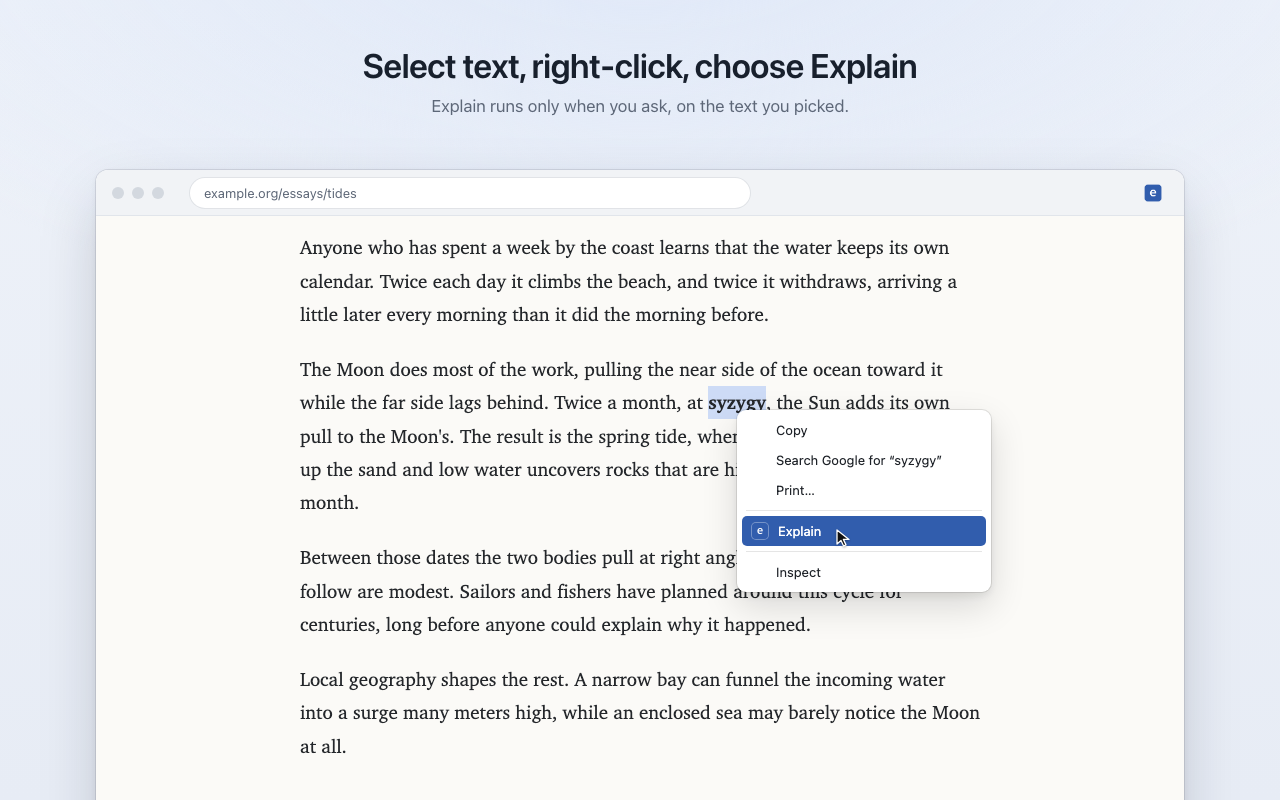
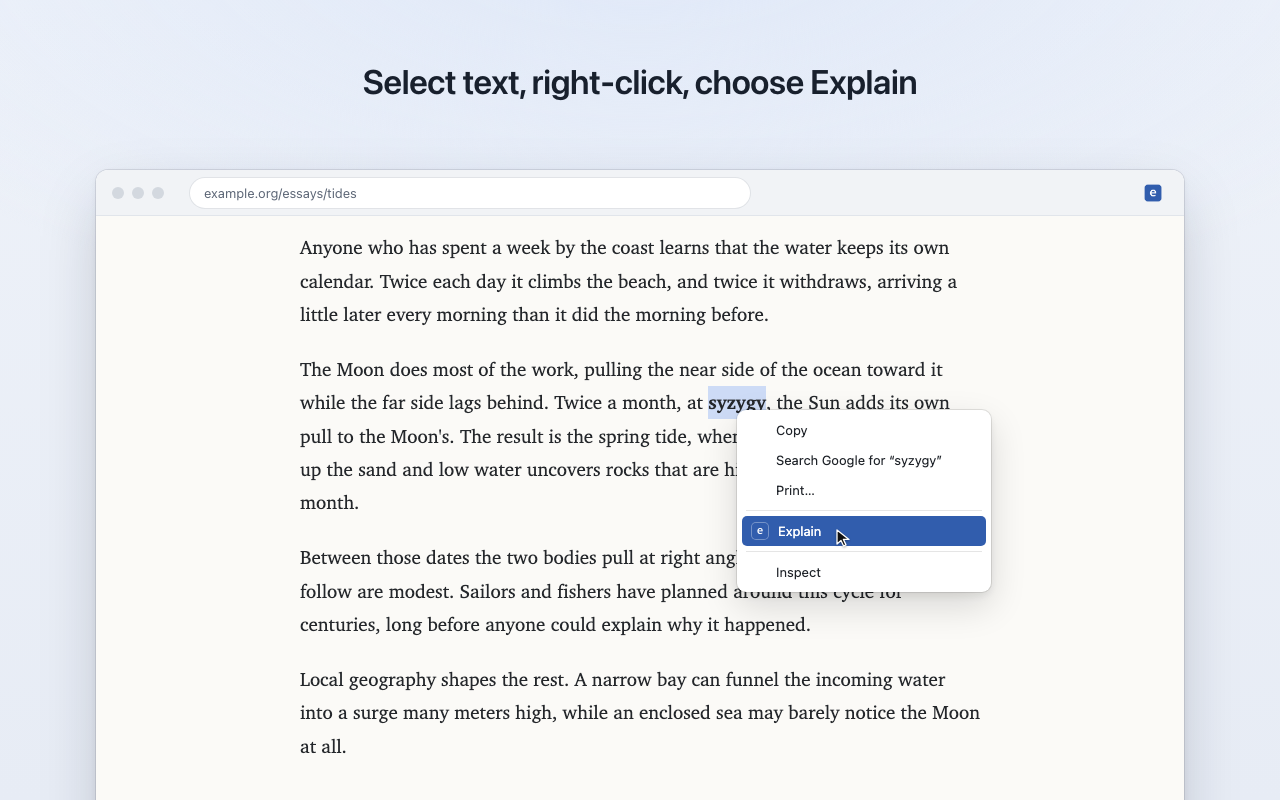
Site: reveal on scroll, screenshot lightbox, shorter copy; drop screenshot subtitles

Changed region(s): [[0.2812, 0.0625, 0.7188, 0.1562]]

diff --git a/docs/index.html b/docs/index.html
@@ -39,11 +39,10 @@
 </nav>
 <main id="main">
 <header class="hero" id="top">
-<p class="status"><span class="dot" aria-hidden="true"></span><span>For Chrome and Firefox<span class="more">. Chrome Web Store listing coming soon.</span></span></p>
+<p class="status"><span class="dot" aria-hidden="true"></span><span>For Chrome and Firefox</span></p>
 <h1>Understand what you read, right where you read it</h1>
-<p class="sub">Select a word or passage, <span class="nw">right-click,</span> and choose Explain. A small card opens beside the text with a short, plain explanation from Google Gemini.</p>
+<p class="sub">Select text, <span class="nw">right-click,</span> choose Explain. A short, plain answer appears right beside it.</p>
 <div class="cta"><a class="btn" href="https://github.com/canmenzo/explainExtension/releases/latest"><svg viewBox="0 0 24 24" aria-hidden="true"><path d="M12 4v11M7 10l5 5 5-5M5 20h14"/></svg>Download from GitHub</a><a class="btn ghost" href="#install">See install steps</a></div>
-<p class="proof">Free and open source. Uses your own free Google AI Studio key. No account, no analytics, no servers of ours.</p>
 
 <figure class="demo" id="demo">
 <div class="win" role="img" aria-label="Illustration: on an article about tides, the word syzygy is selected, the right-click menu offers Explain, and a card beside the word explains it in two sentences.">
@@ -64,17 +63,17 @@
 
 <section class="wrap" id="how">
 <p class="eyebrow rv">How it works</p>
-<h2 class="rv">Add a key once, then right-click to explain</h2>
+<h2 class="rv">Add a key once, then right-click</h2>
 <ol class="trio">
-<li class="card rv"><span class="n">1</span><h3>Add your key</h3><p>Click the Explain icon in the toolbar, paste your Google AI Studio key and click <strong>Save key</strong>. It is kept until the browser closes.</p></li>
-<li class="card rv"><span class="n">2</span><h3>Select and right-click</h3><p>Highlight a word, a phrase or a whole passage on any page, right-click it, and choose <strong>Explain</strong>.</p></li>
-<li class="card rv"><span class="n">3</span><h3>Read beside the text</h3><p>A card opens next to your selection and the explanation streams in as Gemini writes it. Close it with <kbd>Esc</kbd> or a click outside.</p></li>
+<li class="card rv"><span class="n">1</span><h3>Add your key</h3><p>Paste a free Google AI Studio key into the toolbar popup.</p></li>
+<li class="card rv"><span class="n">2</span><h3>Right-click</h3><p>Select any word or passage and choose <strong>Explain</strong>.</p></li>
+<li class="card rv"><span class="n">3</span><h3>Read</h3><p>The answer streams into a card beside the text. <kbd>Esc</kbd> closes it.</p></li>
 </ol>
 <div class="grid">
-<div class="card rv"><svg viewBox="0 0 24 24" aria-hidden="true"><path d="M4 6h16M4 12h10M4 18h13"/></svg><h3>Explained in context</h3><p>Explain sends the paragraph around your selection too, so a word is explained the way this page uses it.</p></div>
-<div class="card rv"><svg viewBox="0 0 24 24" aria-hidden="true"><path d="M5 12h14M13 6l6 6-6 6"/></svg><h3>Streams as it writes</h3><p>The answer appears word by word as Gemini writes it. Long answers scroll inside the card, so the page stays where it was.</p></div>
-<div class="card rv"><svg viewBox="0 0 24 24" aria-hidden="true"><circle cx="12" cy="12" r="9"/><path d="M12 7v5l3 2"/></svg><h3>Quiet until asked</h3><p>Nothing runs on a page until you choose Explain from the menu, and then only on that tab.</p></div>
-<div class="card rv"><svg viewBox="0 0 24 24" aria-hidden="true"><path d="M20 12a8 8 0 11-2.3-5.6M20 4v4h-4"/></svg><h3>Clear when it fails</h3><p>If Gemini is busy or the key is wrong, the card says so in plain words and offers <strong>Try again</strong>.</p></div>
+<div class="card rv"><svg viewBox="0 0 24 24" aria-hidden="true"><path d="M4 6h16M4 12h10M4 18h13"/></svg><h3>Explained in context</h3><p>The paragraph around your selection is sent too, so answers fit the page.</p></div>
+<div class="card rv"><svg viewBox="0 0 24 24" aria-hidden="true"><path d="M5 12h14M13 6l6 6-6 6"/></svg><h3>Streams as it writes</h3><p>Words appear as Gemini writes them. The page never jumps.</p></div>
+<div class="card rv"><svg viewBox="0 0 24 24" aria-hidden="true"><circle cx="12" cy="12" r="9"/><path d="M12 7v5l3 2"/></svg><h3>Quiet until asked</h3><p>Nothing runs on a page until you choose Explain.</p></div>
+<div class="card rv"><svg viewBox="0 0 24 24" aria-hidden="true"><path d="M20 12a8 8 0 11-2.3-5.6M20 4v4h-4"/></svg><h3>Clear when it fails</h3><p>Plain error messages and a <strong>Try again</strong> button.</p></div>
 </div>
 </section>
 
@@ -82,58 +81,59 @@
 <p class="eyebrow rv">Screenshots</p>
 <h2 class="rv">What it looks like in your browser</h2>
 <div class="gallery">
-<figure class="rv"><a href="img/5-popup.png"><picture><source srcset="img/5-popup.webp" type="image/webp"><img src="img/5-popup.png" width="1280" height="800" loading="lazy" decoding="async" alt="The Explain toolbar popup open over an article, with a Gemini API key field, a Get a free key link and a Save key button"></picture></a><figcaption><strong>Setup.</strong> The toolbar popup only asks for your key. <strong>Get a free key</strong> opens Google AI Studio.</figcaption></figure>
-<figure class="rv"><a href="img/1-context-menu.png"><picture><source srcset="img/1-context-menu.webp" type="image/webp"><img src="img/1-context-menu.png" width="1280" height="800" loading="lazy" decoding="async" alt="The word syzygy selected in an article, with the right-click menu open and Explain highlighted"></picture></a><figcaption><strong>Ask.</strong> Right-click any selection and choose Explain.</figcaption></figure>
-<figure class="rv"><a href="img/3-explanation.png"><picture><source srcset="img/3-explanation.webp" type="image/webp"><img src="img/3-explanation.png" width="1280" height="800" loading="lazy" decoding="async" alt="The Explain card below the selected word, explaining that syzygy is the alignment of the Sun, the Moon and Earth"></picture></a><figcaption><strong>Read.</strong> The answer appears in a card right next to your selection.</figcaption></figure>
-<figure class="rv"><a href="img/4-error-retry.png"><picture><source srcset="img/4-error-retry.webp" type="image/webp"><img src="img/4-error-retry.png" width="1280" height="800" loading="lazy" decoding="async" alt="The Explain card showing that Google's rate limit was reached, with a Try again button"></picture></a><figcaption><strong>Recover.</strong> Errors are spelled out, with <strong>Try again</strong> one click away.</figcaption></figure>
+<figure class="rv"><a href="img/5-popup.png"><picture><source srcset="img/5-popup.webp" type="image/webp"><img src="img/5-popup.png" width="1280" height="800" loading="lazy" decoding="async" alt="The Explain toolbar popup open over an article, with a Gemini API key field, a Get a free key link and a Save key button"></picture></a></figure>
+<figure class="rv"><a href="img/1-context-menu.png"><picture><source srcset="img/1-context-menu.webp" type="image/webp"><img src="img/1-context-menu.png" width="1280" height="800" loading="lazy" decoding="async" alt="The word syzygy selected in an article, with the right-click menu open and Explain highlighted"></picture></a></figure>
+<figure class="rv"><a href="img/3-explanation.png"><picture><source srcset="img/3-explanation.webp" type="image/webp"><img src="img/3-explanation.png" width="1280" height="800" loading="lazy" decoding="async" alt="The Explain card below the selected word, explaining that syzygy is the alignment of the Sun, the Moon and Earth"></picture></a></figure>
+<figure class="rv"><a href="img/4-error-retry.png"><picture><source srcset="img/4-error-retry.webp" type="image/webp"><img src="img/4-error-retry.png" width="1280" height="800" loading="lazy" decoding="async" alt="The Explain card showing that Google's rate limit was reached, with a Try again button"></picture></a></figure>
 </div>
 </section>
 
-<div class="tagline"><div class="wrap"><p id="tag">A word you do not know should not send you to another tab. Explain answers it beside the sentence, then gets out of the way.</p></div></div>
+<div class="tagline"><div class="wrap"><p id="tag">A word you do not know should not send you to another tab.</p></div></div>
 
 <section class="wrap" id="privacy">
 <p class="eyebrow rv">Privacy</p>
 <h2 class="rv">Your text goes to Google, and nowhere else</h2>
-<p class="lead rv">Explain has no servers, no account and no analytics. When you choose Explain, your browser sends the request straight to Google's Gemini API with your own key. Nothing passes through us.</p>
+<p class="lead rv">No servers, no account, no analytics. Requests go straight from your browser to Google with your own key.</p>
 <div class="facts">
 <div class="card rv"><h3>What is sent</h3><ul><li>The text you selected</li><li>The paragraph around it</li><li>The page title</li><li>Your API key, to authenticate the request</li></ul></div>
 <div class="card rv"><h3>What is never sent</h3><ul><li>The page address</li><li>The page's HTML</li><li>Anything from tabs where you did not choose Explain</li></ul></div>
 <div class="card rv"><h3>What is stored</h3><ul><li>Only your API key, in browser session memory</li><li>Cleared when the browser closes</li><li>Answers are shown, then discarded</li></ul></div>
 </div>
-<p class="note rv"><strong>Google's free tier.</strong> Requests are processed under Google's terms. On the free tier, Google may use submitted content to improve its products; its paid tier says it does not. Avoid explaining sensitive text on a free key. Read the full <a href="privacy.html">privacy policy</a>.</p>
+<p class="note rv"><strong>Free tier.</strong> Google may use free-tier requests to improve its products, so avoid sensitive text. Read the <a href="privacy.html">privacy policy</a>.</p>
 </section>
 
 <section class="wrap" id="install">
 <p class="eyebrow rv">Install</p>
 <h2 class="rv">Ready in about two minutes</h2>
 <ol class="steps rv">
-<li><strong>Download the ZIP</strong><span>Get <code>explain-chrome.zip</code> from the <a href="https://github.com/canmenzo/explainExtension/releases/latest">latest release</a> and unzip it.</span></li>
-<li><strong>Open the extensions page</strong><span>Type <code>chrome://extensions</code> in the address bar and turn on <strong>Developer mode</strong> in the top right.</span></li>
-<li><strong>Load unpacked</strong><span>Click <strong>Load unpacked</strong> and choose the unzipped folder, the one that contains <code>manifest.json</code>. Pin Explain from the puzzle piece menu so its icon stays in the toolbar.</span></li>
-<li><strong>Add your key</strong><span>Click the Explain icon and follow <strong>Get a free key</strong> to <a href="https://aistudio.google.com/apikey">Google AI Studio</a>. Paste the key and click <strong>Save key</strong>. Then select text, right-click and choose Explain.</span></li>
+<li><strong>Download</strong><span>Get <code>explain-chrome.zip</code> from the <a href="https://github.com/canmenzo/explainExtension/releases/latest">latest release</a> and unzip it.</span></li>
+<li><strong>Open extensions</strong><span>Go to <code>chrome://extensions</code> and turn on <strong>Developer mode</strong>.</span></li>
+<li><strong>Load unpacked</strong><span>Click <strong>Load unpacked</strong> and choose the unzipped folder.</span></li>
+<li><strong>Add your key</strong><span>Click the Explain icon, then <strong>Get a free key</strong>. Paste it and click <strong>Save key</strong>.</span></li>
 </ol>
-<div class="note rv"><strong>Firefox.</strong> Download <code>explain-firefox.zip</code> from the same release and unzip it. Open <code>about:debugging#/runtime/this-firefox</code>, click <strong>Load Temporary Add-on</strong> and pick <code>manifest.json</code> in the unzipped folder. Firefox removes temporary add-ons when it closes, so repeat this after a restart. Needs Firefox 140 or newer.</div>
-<div class="note rv"><strong>Chrome Web Store.</strong> A store listing is coming soon, with one-click install and automatic updates. Until then, the GitHub release is the way in.</div>
+<div class="note rv"><strong>Firefox 140+.</strong> Unzip <code>explain-firefox.zip</code>, open <code>about:debugging#/runtime/this-firefox</code>, click <strong>Load Temporary Add-on</strong> and pick <code>manifest.json</code>. Firefox removes it on restart.</div>
+
 </section>
 
 <section class="wrap" id="faq">
 <p class="eyebrow rv">FAQ</p>
 <h2 class="rv">Questions people ask</h2>
-<details class="rv"><summary>Does it cost anything?</summary><p>Explain itself is free and MIT licensed. The Gemini key is yours: creating one in Google AI Studio is free, and Google's free tier covers light reading with rate limits that depend on your account. If you set up billing with Google, Google charges you directly. See <a href="https://ai.google.dev/gemini-api/docs/pricing">Gemini API pricing</a>.</p></details>
-<details class="rv"><summary>What exactly is sent, and to whom?</summary><p>Only when you choose Explain: the selected text (up to 12,000 characters), the paragraph, list item, heading or table cell around it (up to 5,000 characters), the page title (up to 300 characters) and your key. It goes straight from your browser to <code>generativelanguage.googleapis.com</code>. The page address and HTML are never sent.</p></details>
-<details class="rv"><summary>Why do I paste my key again after restarting the browser?</summary><p>The key is kept only in the browser's session storage, which lives in memory and clears when the browser closes. Explain never writes it to disk. That is a deliberate trade for a little extra typing.</p></details>
-<details class="rv"><summary>What if I choose Explain before adding a key?</summary><p>The card says to add your key first, and where the browser allows it, the key popup opens for you. Paste the key, click <strong>Save key</strong> and choose Explain again.</p></details>
-<details class="rv"><summary>Which browsers are supported?</summary><p>Chrome, and Firefox 140 or newer, on desktop. Other Chromium browsers that can load unpacked extensions may work with the Chrome build, but they are not tested.</p></details>
-<details class="rv"><summary>Which model writes the answers?</summary><p>Gemini 3.8 Flash. Explain calls the model directly and does not run a Google Search, so answers come from the text you selected, the paragraph around it and what the model already knows.</p></details>
-<details class="rv"><summary>Can it read every page I visit?</summary><p>No. Explain has no access to your sites until you choose it from the right-click menu. That grants it the current tab only, through the browser's active tab permission.</p></details>
-<details class="rv"><summary>Is it in the Chrome Web Store?</summary><p>Not yet. The listing is coming soon. For now, install it from the GitHub release as described above.</p></details>
+<details class="rv"><summary>Does it cost anything?</summary><p>Explain is free and MIT licensed. A Gemini key from Google AI Studio is free too, with rate limits. See <a href="https://ai.google.dev/gemini-api/docs/pricing">Gemini API pricing</a>.</p></details>
+<details class="rv"><summary>What exactly is sent, and to whom?</summary><p>The selected text, the paragraph around it and the page title, sent straight to <code>generativelanguage.googleapis.com</code>. Never the page address or HTML.</p></details>
+<details class="rv"><summary>Why do I paste my key again after restarting the browser?</summary><p>The key lives only in session memory and is never written to disk, so it clears when the browser closes.</p></details>
+<details class="rv"><summary>What if I choose Explain before adding a key?</summary><p>The card asks for a key and the key popup opens where the browser allows it.</p></details>
+<details class="rv"><summary>Which browsers are supported?</summary><p>Chrome, and Firefox 140 or newer, on desktop.</p></details>
+<details class="rv"><summary>Which model writes the answers?</summary><p>Gemini 3.8 Flash, without Google Search.</p></details>
+<details class="rv"><summary>Can it read every page I visit?</summary><p>No. It only gets access to the current tab when you choose Explain.</p></details>
+<details class="rv"><summary>Is it in the Chrome Web Store?</summary><p>Not yet. Install it from the GitHub release for now.</p></details>
 </section>
 
 <section class="wrap final">
-<div class="panel rv"><img class="pm" src="icon-128.png" alt="" width="48" height="48" loading="lazy"><h2>Keep reading without losing your place</h2><p>Free, open source and ready in about two minutes.</p><div class="cta"><a class="btn lg" href="https://github.com/canmenzo/explainExtension/releases/latest"><svg viewBox="0 0 24 24" aria-hidden="true"><path d="M12 4v11M7 10l5 5 5-5M5 20h14"/></svg>Download from GitHub</a><a class="btn ghost lg" href="https://github.com/canmenzo/explainExtension">View source</a></div></div>
+<div class="panel rv"><img class="pm" src="icon-128.png" alt="" width="48" height="48" loading="lazy"><h2>Keep reading without losing your place</h2><div class="cta"><a class="btn lg" href="https://github.com/canmenzo/explainExtension/releases/latest"><svg viewBox="0 0 24 24" aria-hidden="true"><path d="M12 4v11M7 10l5 5 5-5M5 20h14"/></svg>Download from GitHub</a><a class="btn ghost lg" href="https://github.com/canmenzo/explainExtension">View source</a></div></div>
 </section>
 </main>
 <footer><div class="wrap"><div class="fb"><a class="brand" href="#top"><img src="icon-128.png" alt="" width="24" height="24">Explain</a><p>Plain explanations for what you read. MIT licensed. Made by <a href="https://menzo.dev">menzo</a>.</p></div><nav aria-label="Footer"><a href="https://github.com/canmenzo/explainExtension">GitHub</a><a href="https://github.com/canmenzo/explainExtension/releases/latest">Releases</a><a href="privacy.html">Privacy</a><a href="https://babil.menzo.dev">Babil</a><a href="https://hammurabi.menzo.dev">Hammurabi</a><a href="https://menzo.dev">menzo.dev</a></nav></div></footer>
+<dialog class="lb" id="lb" aria-label="Screenshot"><img alt=""></dialog>
 <script>
 (function(){
 var rm=matchMedia("(prefers-reduced-motion: reduce)").matches;
@@ -163,7 +163,7 @@ if(document.fonts)document.fonts.ready.then(place);
 if(rm||!("IntersectionObserver" in window)){stage(4);return}
 replay.hidden=false;replay.addEventListener("click",play);
 stage(0);
-var o=new IntersectionObserver(function(es){if(es[0].isIntersecting){o.disconnect();play()}},{threshold:.4});o.observe(demo);
+var o=new IntersectionObserver(function(es){if(es[0].isIntersecting){o.disconnect();play()}},{threshold:.6});o.observe(demo);
 })();
 (function(){
 var rm=matchMedia("(prefers-reduced-motion: reduce)").matches;
@@ -175,10 +175,18 @@ function all(){ws.concat(rv).forEach(function(e){e.classList.add("on")})}
 if(!("IntersectionObserver" in window)||rm){all();return}
 function mk(m){var o=new IntersectionObserver(function(es){es.forEach(function(e){if(e.isIntersecting){e.target.classList.add("on");o.unobserve(e.target)}})},{rootMargin:m});return o}
 var wo=mk("0px 0px -40% 0px");ws.forEach(function(w){wo.observe(w)});
-var ro=mk("0px 0px -5% 0px");rv.forEach(function(e){ro.observe(e)});
+// Reveal once an element is well inside the viewport, staggering items that arrive together.
+var ro=new IntersectionObserver(function(es){var n=0;es.forEach(function(e){if(!e.isIntersecting)return;var t=e.target,d=n++*90;t.style.transitionDelay=d+"ms";t.classList.add("on");ro.unobserve(t);setTimeout(function(){t.style.transitionDelay=""},d+900)})},{threshold:.2,rootMargin:"0px 0px -12% 0px"});
+rv.forEach(function(e){ro.observe(e)});
 var links=[].slice.call(document.querySelectorAll(".links a"));
 var so=new IntersectionObserver(function(es){es.forEach(function(e){if(e.isIntersecting){links.forEach(function(a){if(a.getAttribute("href")==="#"+e.target.id)a.setAttribute("aria-current","true");else a.removeAttribute("aria-current")})}})},{rootMargin:"-40% 0px -55% 0px"});
 links.forEach(function(a){var s=document.querySelector(a.getAttribute("href"));if(s)so.observe(s)});
+})();
+(function(){
+var lb=document.getElementById("lb"),img=lb.querySelector("img");
+if(!lb.showModal)return;
+[].slice.call(document.querySelectorAll(".gallery a")).forEach(function(a){a.addEventListener("click",function(e){e.preventDefault();var i=a.querySelector("img");img.src=a.getAttribute("href");img.alt=i.alt;lb.showModal()})});
+lb.addEventListener("click",function(){lb.close()});
 })();
 </script>
 </body>

diff --git a/docs/style.css b/docs/style.css
@@ -31,7 +31,6 @@ nav.pill .links a[aria-current]{text-decoration:underline;text-decoration-color:
 .hero h1{max-width:10.3em;margin:0 auto 20px;padding:.04em 0 .16em;font-size:clamp(36px,7vw,60px);line-height:1.08;font-weight:700;letter-spacing:-.035em;text-wrap:balance;background:linear-gradient(90deg,var(--g1),var(--g2));-webkit-background-clip:text;background-clip:text;color:transparent}
 .hero p.sub{max-width:640px;margin:0 auto 32px;font-size:18px;line-height:28px;color:var(--soft);text-wrap:balance}
 .cta{display:flex;flex-wrap:wrap;gap:12px;justify-content:center}
-.proof{max-width:600px;margin:20px auto 0;font-size:14px;line-height:20px;color:var(--soft);text-wrap:balance}
 .status{display:inline-flex;align-items:center;gap:8px;margin:0 0 24px;padding:4px 12px;border:1px solid var(--border);border-radius:9999px;background:var(--raised);font-size:14px;line-height:20px;font-weight:600;color:var(--soft)}
 .dot{flex:none;width:8px;height:8px;border-radius:9999px;background:var(--accent);display:inline-block;animation:pulse 2.4s var(--ease) infinite}
 @keyframes pulse{50%{opacity:.35}}
@@ -57,13 +56,18 @@ h3{letter-spacing:-.01em}
 .trio .card{background:var(--raised);box-shadow:var(--lift)}
 .trio .n{display:grid;place-items:center;width:32px;height:32px;border-radius:10px;background:var(--accent-bg);color:var(--on-accent);font-weight:700}
 .trio kbd{font-size:12px;padding:0 4px}
-.gallery{display:grid;grid-template-columns:repeat(2,minmax(0,1fr));gap:32px 24px}
+.gallery{display:grid;grid-template-columns:repeat(2,minmax(0,1fr));gap:24px}
 .gallery figure{margin:0}
-.gallery a{display:block;padding:6px;border:1px solid var(--border);border-radius:16px;background:var(--raised);box-shadow:var(--lift);transition:border-color .5s var(--ease),transform .5s var(--ease)}
+.gallery a{display:block;cursor:zoom-in;padding:6px;border:1px solid var(--border);border-radius:16px;background:var(--raised);box-shadow:var(--lift);transition:border-color .5s var(--ease),transform .5s var(--ease)}
 .gallery a:hover{border-color:color-mix(in srgb,var(--accent) 50%,var(--border));transform:translateY(-2px)}
 .gallery img{border-radius:10px;width:100%;aspect-ratio:16/10}
-.gallery figcaption{margin-top:12px;padding:0 4px;font-size:15px;line-height:22px;color:var(--soft)}
-.gallery figcaption strong{color:var(--text)}
+.lb{padding:0;border:0;background:none;max-width:none;max-height:none;overflow:visible;cursor:zoom-out}
+.lb::backdrop{background:rgba(10,14,22,.72);backdrop-filter:blur(6px);-webkit-backdrop-filter:blur(6px)}
+.lb img{display:block;width:auto;height:auto;max-width:min(1280px,calc(100vw - 32px));max-height:calc(100vh - 32px);border-radius:12px;box-shadow:0 24px 64px -16px rgba(0,0,0,.6)}
+.lb[open]{animation:zoom .3s var(--ease)}
+.lb[open]::backdrop{animation:fadein .3s var(--ease)}
+@keyframes zoom{from{opacity:0;transform:scale(.96)}}
+@keyframes fadein{from{opacity:0}}
 .steps{list-style:none;counter-reset:s;margin:0;padding:0;display:grid;gap:12px;max-width:760px}
 .steps li{counter-increment:s;position:relative;padding:20px 20px 20px 68px;border:1px solid var(--border);border-radius:16px;background:var(--raised)}
 .steps li::before{content:counter(s);position:absolute;left:20px;top:18px;width:32px;height:32px;display:grid;place-items:center;border-radius:9999px;background:var(--accent-bg);color:var(--on-accent);font-weight:700}
@@ -92,8 +96,7 @@ details p{margin:0 0 20px;color:var(--soft)}
 section.final{padding-top:80px}
 .panel{padding:64px 24px;text-align:center;border:1px solid var(--border);border-radius:24px;background:radial-gradient(80% 100% at 50% 0,var(--wash),var(--surface))}
 .panel .pm{width:48px;height:48px;margin:0 auto 24px;border-radius:12px;box-shadow:var(--lift)}
-.panel h2{max-width:560px;margin:0 auto 12px}
-.panel p{max-width:480px;margin:0 auto 32px;color:var(--soft)}
+.panel h2{max-width:560px;margin:0 auto 32px}
 footer{margin-top:80px;border-top:1px solid var(--border);padding:48px 0;font-size:14px;line-height:20px;color:var(--soft)}
 footer .wrap{display:flex;flex-wrap:wrap;align-items:flex-start;justify-content:space-between;gap:32px}
 .fb{max-width:320px}
@@ -160,13 +163,11 @@ footer nav a:hover{transform:translateY(-2px)}
 .replay svg{width:14px;height:14px;fill:none;stroke:currentColor;stroke-width:1.75;stroke-linecap:round;stroke-linejoin:round}
 .replay:disabled{visibility:hidden;opacity:0}
 .replay[hidden]{display:none}
-.status .more{display:inline}
 .nw{white-space:nowrap}
 
 @media(max-width:960px){.grid{grid-template-columns:repeat(2,minmax(0,1fr))}footer nav{justify-content:flex-start}}
 @media(max-width:860px){.trio .card{padding:20px}}
 @media(max-width:640px){.gallery,.trio,.grid{grid-template-columns:1fr}nav.pill .links{display:none}.hero{padding:48px 16px 40px}section.wrap{padding-top:72px}section.final{padding-top:64px}.tagline{padding:64px 0;margin-top:72px}.panel{padding:48px 16px}h2{font-size:26px;line-height:34px;margin-bottom:24px}.hero .cta .btn{width:100%}.hero .cta{max-width:320px;margin:0 auto}.wrap{padding:0 16px}.demo{margin-top:40px}.win{padding:4px;border-radius:14px}.page{min-height:480px;padding:24px 16px 32px;font-size:16px;line-height:28px;border-radius:10px}.page .ptitle{font-size:24px;line-height:30px}.bar{gap:8px}.lights{display:none}.steps li{padding:16px 16px 16px 60px}.steps li::before{left:16px;top:14px}.replay span{position:absolute;width:1px;height:1px;overflow:hidden;clip-path:inset(50%);white-space:nowrap}.replay{padding:6px}footer nav{justify-content:flex-start}footer{margin-top:64px}.lead{font-size:16px;line-height:26px}details{padding:0 16px}summary{margin:0 -16px;padding:16px}}
-@media(max-width:480px){.status .more{display:none}}
 @media(max-width:400px){.menu{width:200px}}
 @media(prefers-reduced-motion:reduce){*{transition:none!important;animation:none!important;scroll-behavior:auto!important}.js .rv{opacity:1;transform:none;filter:none}.tagline .w{opacity:1}}
 

diff --git a/store/make_screenshots.py b/store/make_screenshots.py
@@ -21,16 +21,11 @@ ANSWER = ("Syzygy is the straight-line alignment of three celestial bodies. Here
 ERROR = "Google rate or usage limit reached. Try again later."
 
 SHOTS = {
-    "1-context-menu.png": ("Select text, right-click, choose Explain",
-                           "Explain runs only when you ask, on the text you picked."),
-    "2-streaming.png": ("The answer streams in beside your text",
-                        "A short, plain explanation, written for the passage you are reading."),
-    "3-explanation.png": ("Understand it without leaving the page",
-                          "Explain reads the surrounding paragraph, so answers fit the context."),
-    "4-error-retry.png": ("Clear errors, one click to retry",
-                          "If Google cannot answer, Explain says why and lets you try again."),
-    "5-popup.png": ("Bring your own free Gemini key",
-                    "Paste a key from Google AI Studio. It is kept for this browser session only."),
+    "1-context-menu.png": "Select text, right-click, choose Explain",
+    "2-streaming.png": "The answer streams in beside your text",
+    "3-explanation.png": "Understand it without leaving the page",
+    "4-error-retry.png": "Clear errors, one click to retry",
+    "5-popup.png": "Bring your own free Gemini key",
 }
 
 ARTICLE = """<!doctype html><html lang="en"><head><meta charset="utf-8"><title>Why the Sea Rises Twice a Day</title>
@@ -64,9 +59,8 @@ FRAME = """<!doctype html><html lang="en"><head><meta charset="utf-8"><style>
 *{box-sizing:border-box}
 body{margin:0;width:1280px;height:800px;overflow:hidden;font-family:system-ui,-apple-system,'Segoe UI',sans-serif;-webkit-font-smoothing:antialiased;
   background:radial-gradient(900px 420px at 50% -80px,#dfe8f8,transparent),linear-gradient(180deg,#eef2f9,#e7ecf5)}
-.caption{position:absolute;top:44px;left:0;right:0;text-align:center}
+.caption{position:absolute;top:60px;left:0;right:0;text-align:center}
 h1{margin:0;color:#18202d;font-size:34px;line-height:42px;font-weight:600;letter-spacing:-.02em}
-.caption p{margin:8px 0 0;color:#5d6778;font-size:17px;line-height:24px}
 .window{position:absolute;left:96px;top:170px;width:1088px;height:690px;border-radius:12px;overflow:hidden;background:#fff;
   box-shadow:0 0 0 1px #0f172a1a,0 2px 6px #0f172a0f,0 24px 60px -12px #0f172a40}
 .bar{height:46px;display:flex;align-items:center;gap:14px;padding:0 16px;background:#f1f3f6;border-bottom:1px solid #e1e5eb;font-size:13px;color:#5b6575}
@@ -79,7 +73,7 @@ iframe{display:block;width:100%;height:644px;border:0}
 .popup{position:absolute;top:50px;right:10px;width:336px;border:0;border-radius:12px;background:#f6f7fa;
   box-shadow:0 0 0 1px #0f172a1f,0 8px 20px #0f172a1a,0 24px 48px -12px #0f172a40}
 </style></head><body>
-<div class="caption"><h1></h1><p></p></div>
+<div class="caption"><h1></h1></div>
 <div class="window"><div class="bar"><span class="dots"><i></i><i></i><i></i></span><span class="url">example.org/essays/tides</span>
 <span class="ext"><img src="/extension/icons/icon-32.png" alt=""></span></div><iframe src="/article.html"></iframe></div>
 </body></html>"""
@@ -115,9 +109,7 @@ async def serve(route):
 async def window(context, name):
     page = await context.new_page()
     await page.goto(f"{ORIGIN}/frame.html")
-    title, subtitle = SHOTS[name]
-    await page.evaluate("([t, s]) => { document.querySelector('h1').textContent = t; document.querySelector('.caption p').textContent = s; }",
-                        [title, subtitle])
+    await page.evaluate("t => { document.querySelector('h1').textContent = t; }", SHOTS[name])
     article = page.frames[1]
     await article.wait_for_load_state()
     await article.evaluate("""() => {
